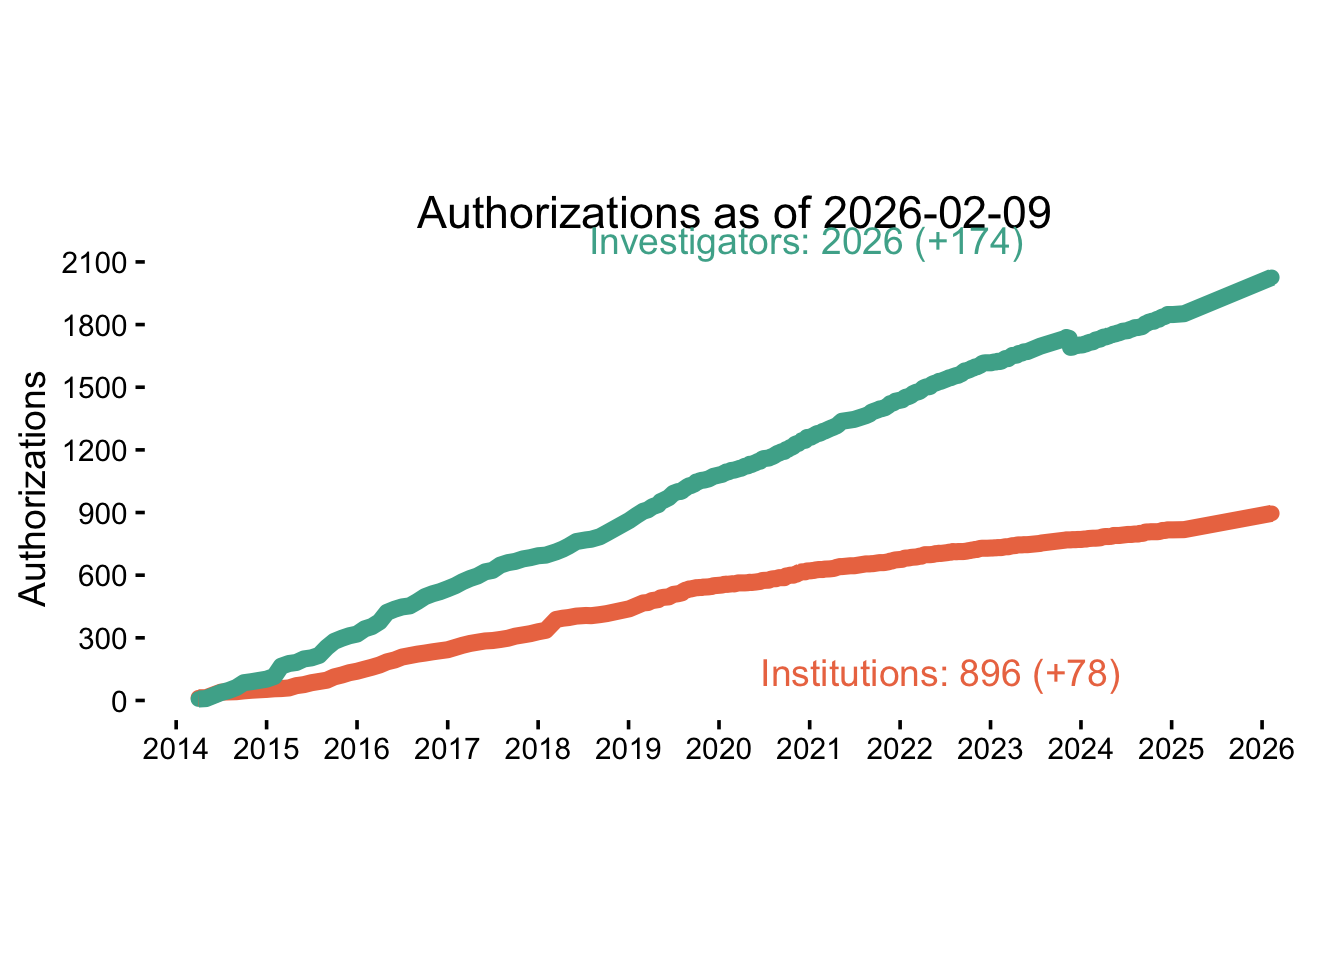
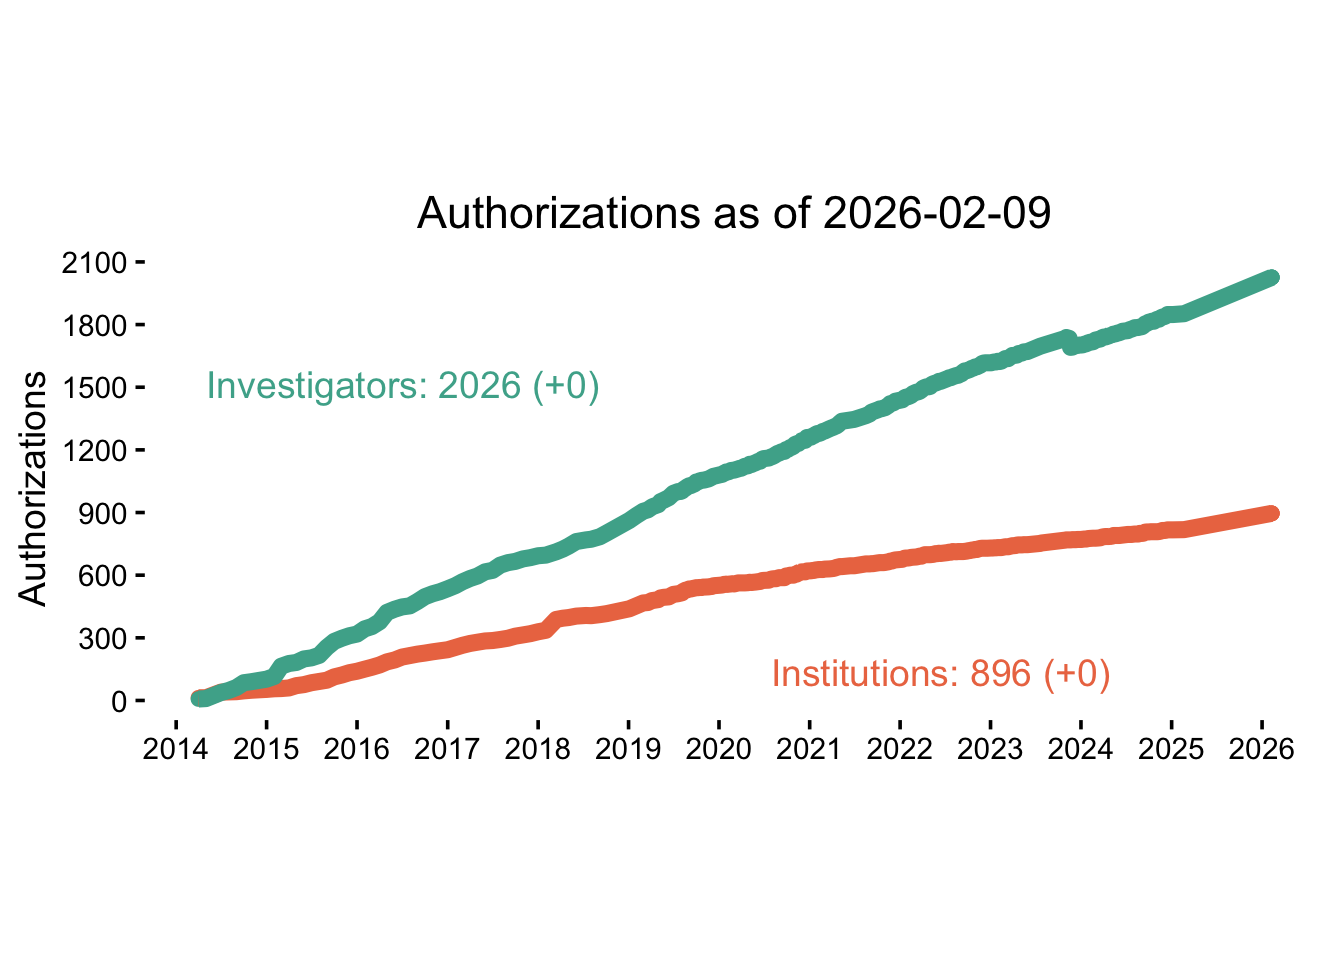
Fix figure label spacing in weekly.qmd

Changed region(s): [[0.4375, 0.2188, 0.75, 0.2812], [0.1562, 0.375, 0.4375, 0.4375], [0.5625, 0.6875, 0.8438, 0.7188]]

diff --git a/docs/weekly.html b/docs/weekly.html
@@ -170,7 +170,7 @@ ul.task-list li input[type="checkbox"] {
     <div>
     <div class="quarto-title-meta-heading">Modified</div>
     <div class="quarto-title-meta-contents">
-      <p class="date-modified">February 4, 2026</p>
+      <p class="date-modified">February 9, 2026</p>
     </div>
   </div>
     
